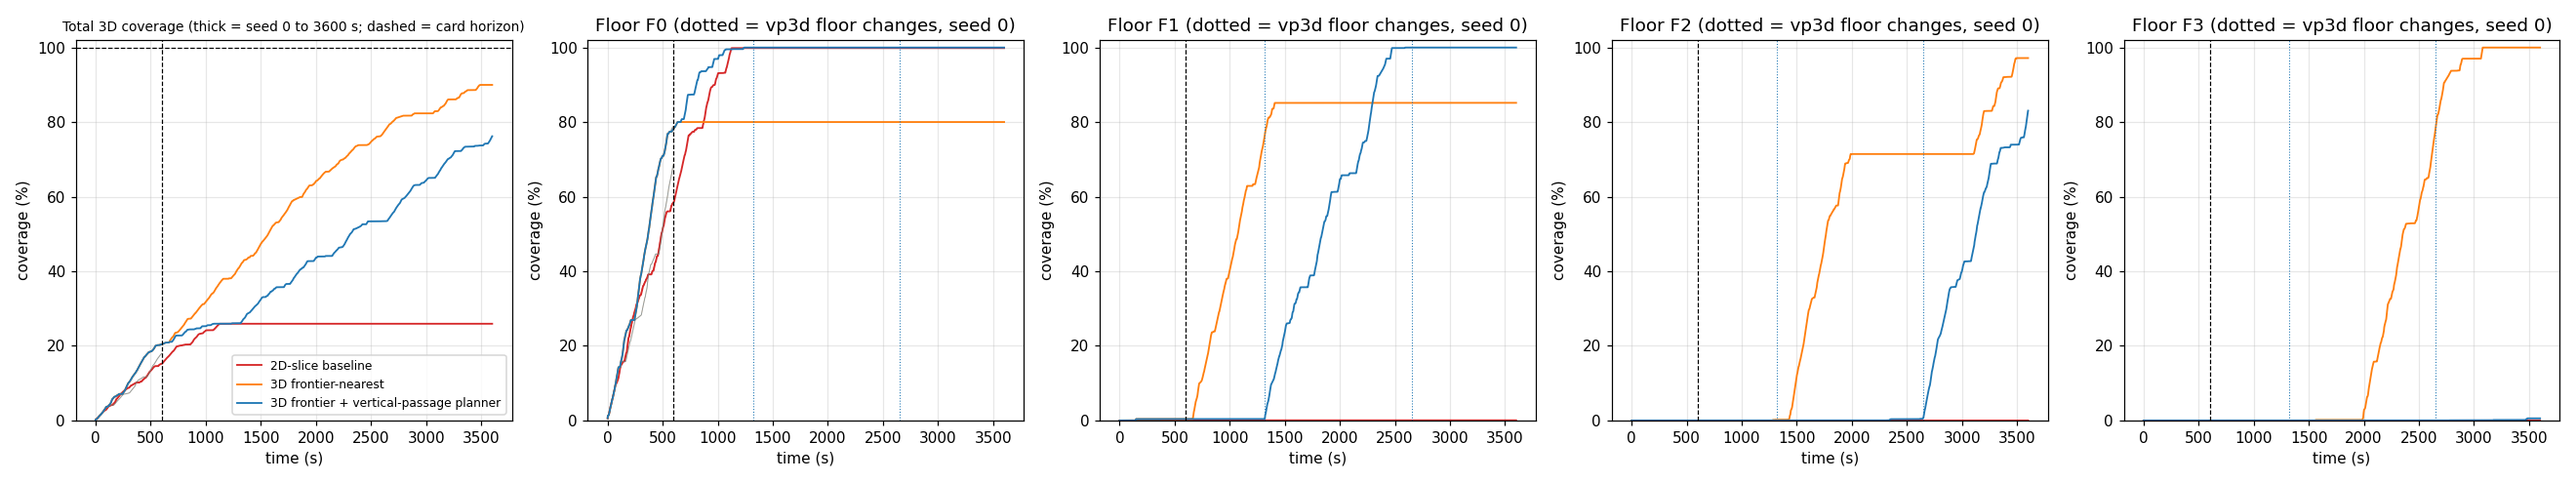
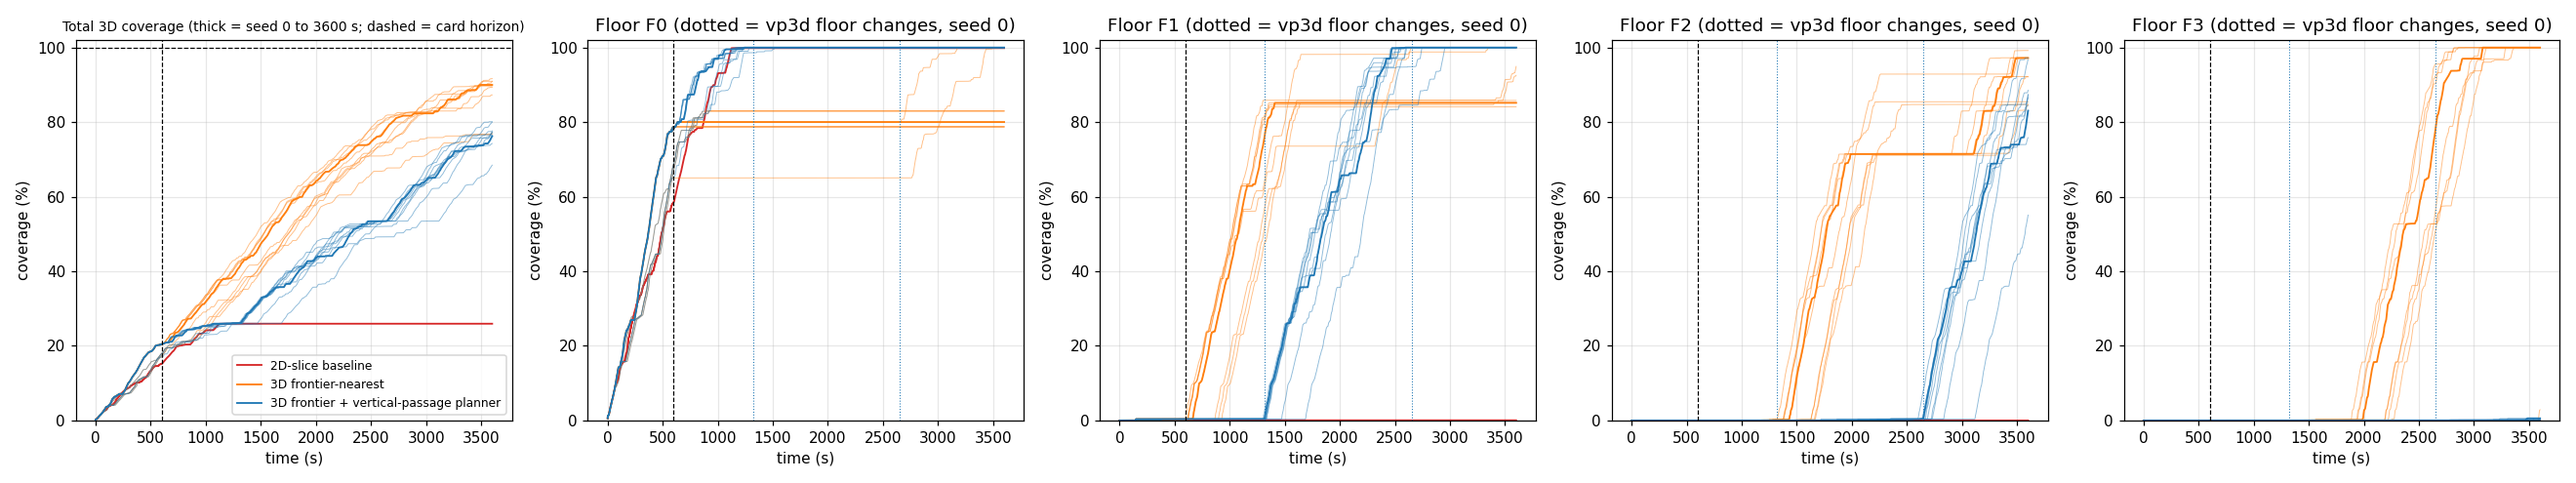
Fix S043 3D Confined Space Exploration: address review follow-ups

diff --git a/src/03_environmental_sar/3d/s043_3d_confined_space.py b/src/03_environmental_sar/3d/s043_3d_confined_space.py
@@ -44,6 +44,7 @@ from matplotlib.animation import FuncAnimation, PillowWriter
 from scipy.sparse import coo_matrix
 from scipy.sparse.csgraph import dijkstra
 from scipy.ndimage import label
+from concurrent.futures import ProcessPoolExecutor
 
 _HERE = os.path.dirname(os.path.abspath(__file__))
 _spec = importlib.util.spec_from_file_location('s043_2d', os.path.join(_HERE, '..', 's043_confined_space.py'))
@@ -73,7 +74,8 @@ T_EXT        = 3600.0              # s — supplementary horizon (the card horiz
 STAIR_SPAN   = 2.5                 # m — card: a stairwell cluster spans >= 2.5 m vertically
 VP_BONUS     = 2.0                 # s — stairwell priority bonus (card: +2.0 BFS cost offset)
 START        = np.array([2.0, 2.0, 0.5])
-SEEDS        = [0, 1, 2]           # lidar-noise seeds
+SEEDS        = list(range(10))     # lidar-noise seeds 0-9
+N_WORKERS    = 8                   # parallel processes (results do not depend on it)
 ANIM_EVERY   = 300                 # steps (30 s)
 W_H, W_V     = RES / V_XY, RES / V_Z   # edge times (s)
 
@@ -105,8 +107,8 @@ def build_building():
                 i, j = rng.integers(3, NX - 5), rng.integers(3, NY - 5)
                 V[i:i + 2, j:j + 2, k0:k1] = True
     for name, s, (x0, x1), (y0, y1) in OPENINGS:  # stairwell openings (cleared over both floors)
-        V[x0:x1, y0:y1, s - 4:s + 5] = False
-        V[x0 - 1:x1 + 1, y0 - 1:y1 + 1, s] &= ~np.zeros((x1 - x0 + 2, y1 - y0 + 2), bool)
+        V[x0:x1, y0:y1, s - 4:min(s + 5, NZ - 1)] = False   # never opens the roof (layer NZ-1)
+    assert V[:, :, NZ - 1].all() and V[:, :, 0].all(), 'roof / ground slab must stay closed'
     # partly collapsed ceiling in F0 (room x 14-24, y 2-9): only layers 1-2 free (1.0 m)
     V[28:48, 4:18, 3:5] = True
     # crawl space in F0 (x 1-5, y 26-29): only layer 1 free (0.5 m) -> impassable
@@ -191,10 +193,11 @@ def scan(L, V, pos, rng):
     hit_lin = lin[np.arange(len(DIRS)), np.minimum(first, len(RS) - 1)]
     free_m = RS[None, :] < (r_meas[:, None] - RAY_STEP / 2)
     free_m &= lin != hit_lin[:, None]
-    bid = np.broadcast_to(np.arange(len(DIRS))[:, None], lin.shape)
-    pairs = np.unique(bid[free_m] * (NX * NY * NZ) + lin[free_m])
+    # one free update per (beam, voxel): a straight ray visits each voxel in one consecutive run
+    first_of_run = np.ones(lin.shape, dtype=bool)
+    first_of_run[:, 1:] = lin[:, 1:] != lin[:, :-1]
     Lf = L.reshape(-1)
-    np.add.at(Lf, pairs % (NX * NY * NZ), L_FREE)
+    np.add.at(Lf, lin[free_m & first_of_run], L_FREE)
     hits = hit_lin[hit_any & (r_meas < SENSOR_R)]
     np.add.at(Lf, hits, L_OCC)
     np.clip(Lf, L_MIN, L_MAX, out=Lf)
@@ -269,9 +272,14 @@ def run(V, reach_vox, strategy, seed, t_max=T_MAX, record=False):
     for step in range(n_steps):
         t = step * DT
         scan(L, V, pos, rng)
-        p = prob(L)
-        known_free = p < P_FREE
-        if step % 10 == 0 or step == n_steps - 1:
+        cur = node_of(pos)
+        at_node = bool(np.all(np.abs(pos - centre(cur)) <= 1e-9))
+        sample = step % 10 == 0 or step == n_steps - 1
+        plan_now = at_node and t >= next_plan_t and step < n_steps - 1
+        if sample or plan_now or step in snap_steps or (record and step % ANIM_EVERY == 0):
+            p = prob(L)                            # only evaluated when it is used
+            known_free = p < P_FREE
+        if sample:
             cov_t.append(t)
             cov.append(100 * np.sum(known_free & reach_vox) / n_reach)
             cov_f.append([100 * np.sum(known_free & fv) / max(fv.sum(), 1) for fv in floors_vox])
@@ -284,10 +292,8 @@ def run(V, reach_vox, strategy, seed, t_max=T_MAX, record=False):
             frames.append((t, p.copy(), pos.copy()))
         if step == n_steps - 1:
             break
-        cur = node_of(pos)
-        at_node = np.allclose(pos, centre(cur), atol=1e-9)
         # replan when idle at a node and the goal is gone / reached / path blocked
-        if at_node and t >= next_plan_t:
+        if plan_now:
             frv = frontier_mask(p)
             fr = frv.copy()                        # frontier NODE: its own voxel or its headroom voxel borders unknown
             fr[:, :, :-1] |= frv[:, :, 1:]
@@ -344,7 +350,7 @@ def run(V, reach_vox, strategy, seed, t_max=T_MAX, record=False):
                 pos = tgt
                 n = path.pop(0)
                 assert not V[n] and not V[n[0], n[1], n[2] + 1], 'entered an occupied voxel'
-                assert p[n] < P_OCC, 'entered a mapped-occupied voxel'
+                assert prob(L[n]) < P_OCC, 'entered a mapped-occupied voxel'
                 f_now = FLOOR_OF[n[2]]
                 if f_now != last_floor:
                     floor_switch.append((t, last_floor, f_now))
@@ -354,7 +360,7 @@ def run(V, reach_vox, strategy, seed, t_max=T_MAX, record=False):
     path_len = float(np.sum(np.linalg.norm(np.diff(traj, axis=0), axis=1)))
     return dict(cov_t=np.array(cov_t), cov=np.array(cov), cov_f=np.array(cov_f), traj=traj,
                 path_len=path_len, passages=passages, floor_switch=floor_switch, n_plans=n_plans,
-                snaps=snaps, frames=frames, exhausted_t=exhausted_t, final_p=p)
+                snaps=snaps, frames=frames, exhausted_t=exhausted_t, final_p=prob(L))
 
 
 def exh(r):
@@ -369,6 +375,14 @@ def cov_at(r, tt):
 def cov_f_at(r, tt):
     i = np.searchsorted(r['cov_t'], tt + 1e-9) - 1
     return r['cov_f'][i]
+
+
+def _job(args):
+    """One mission in a worker process (the building is rebuilt deterministically)."""
+    strategy, seed, t_max, record = args
+    V = build_building()
+    reach_vox = node_voxels(reachable_nodes(V, node_of(START)))
+    return run(V, reach_vox, strategy, seed, t_max=t_max, record=record)
 
 
 def t_reach(res, level):
@@ -398,23 +412,30 @@ def run_simulation():
         print(f'Opening {name}: slab layer {s} (z {s * RES:.1f} m), x {x0 * RES:.1f}-{x1 * RES:.1f} m, '
               f'y {y0 * RES:.1f}-{y1 * RES:.1f} m, area {(x1 - x0) * (y1 - y0) * RES ** 2:.1f} m^2')
     print(f'Card horizon check: {T_MAX:.0f} s at {V_XY} m/s is at most {T_MAX * V_XY:.0f} m of flight')
-    # seed 0 is flown for T_EXT; its first T_MAX seconds are identical to a T_MAX run (same noise stream)
-    res = {s: [] for s in STRATS}
-    ext = {}
-    print(f'=== Card horizon {T_MAX:.0f} s, lidar seeds {SEEDS} (seed {SEEDS[0]} read from its {T_EXT:.0f} s run) ===')
+    # Every 3D run is flown for T_EXT; its first T_MAX seconds are identical to a T_MAX run (same
+    # noise stream), so the card-horizon numbers are read from it.  The slice baseline is flown to
+    # T_EXT for seed 0 only (its frontiers run out long before).  Runs are independent and are
+    # executed in parallel processes; results are collected in a fixed order.
+    jobs = []
     for seed in SEEDS:
         for s in STRATS:
-            if seed == SEEDS[0]:
-                r = run(V, reach_vox, s, seed, t_max=T_EXT, record=True)
-                ext[s] = r
-            else:
-                r = run(V, reach_vox, s, seed, t_max=T_MAX)
-            res[s].append(r)
+            long_run = s != 'slice' or seed == SEEDS[0]
+            jobs.append((s, seed, T_EXT if long_run else T_MAX, seed == SEEDS[0]))
+    with ProcessPoolExecutor(max_workers=min(N_WORKERS, len(jobs))) as ex:
+        outs = list(ex.map(_job, jobs))
+    res = {s: [] for s in STRATS}
+    for (s, seed, tm, rec), r in zip(jobs, outs):
+        res[s].append(r)
+    ext = {s: res[s][0] for s in STRATS}
+    print(f'=== Card horizon {T_MAX:.0f} s, lidar seeds {SEEDS} ===')
+    for i, seed in enumerate(SEEDS):
+        for s in STRATS:
+            r = res[s][i]
             cf = cov_f_at(r, T_MAX)
             print(f'seed {seed} [{s:6s}] coverage at {T_MAX:.0f} s {cov_at(r, T_MAX):.1f} % (F0 {cf[0]:.1f} / F1 {cf[1]:.1f} / '
                   f'F2 {cf[2]:.1f} / F3 {cf[3]:.1f} %), at 200/400 s {cov_at(r, 200):.1f}/{cov_at(r, 400):.1f} %, '
                   f'floor changes by {T_MAX:.0f} s {sum(1 for x in r["floor_switch"] if x[0] <= T_MAX)}')
-    print(f'=== Summary at {T_MAX:.0f} s over seeds (mean, min-max) ===')
+    print(f'=== Summary at {T_MAX:.0f} s over {len(SEEDS)} seeds (mean, min-max) ===')
     cov600 = {s: np.array([cov_at(r, T_MAX) for r in res[s]]) for s in STRATS}
     for s in STRATS:
         c = cov600[s]
@@ -423,7 +444,28 @@ def run_simulation():
         d = cov600[a] - cov600[b]
         print(f'{a} vs {b}: higher in {int(np.sum(d > 0))}/{len(SEEDS)} seeds, equal in {int(np.sum(d == 0))} '
               f'(mean diff {d.mean():+.1f} pts)')
-    print(f'=== Extended horizon {T_EXT:.0f} s (seed {SEEDS[0]}) ===')
+    print(f'=== Extended horizon {T_EXT:.0f} s, 3D strategies, {len(SEEDS)} seeds ===')
+    marks = (1200, 1800, 2400, 3600)
+    for i, seed in enumerate(SEEDS):
+        a, b = res['near3d'][i], res['vp3d'][i]
+        fa = a['floor_switch'][0][0] if a['floor_switch'] else float('nan')
+        fb = b['floor_switch'][0][0] if b['floor_switch'] else float('nan')
+        print(f'seed {seed}: near3d ' + '/'.join(f'{cov_at(a, tt):.1f}' for tt in marks)
+              + ' %, vp3d ' + '/'.join(f'{cov_at(b, tt):.1f}' for tt in marks)
+              + f' % (at 1200/1800/2400/3600 s); time to 50 %: near3d {t_reach(a, 50):.1f} s, '
+              f'vp3d {t_reach(b, 50):.1f} s; first floor change near3d {fa:.0f} s, vp3d {fb:.0f} s')
+    for tt in marks:
+        ca = np.array([cov_at(r, tt) for r in res['near3d']]); cb = np.array([cov_at(r, tt) for r in res['vp3d']])
+        d = ca - cb
+        print(f'at {tt} s: near3d {ca.mean():.1f} +- {ca.std():.1f} % [{ca.min():.1f}, {ca.max():.1f}], vp3d '
+              f'{cb.mean():.1f} +- {cb.std():.1f} % [{cb.min():.1f}, {cb.max():.1f}]; near3d higher in '
+              f'{int(np.sum(d > 0))}/{len(SEEDS)}, vp3d higher in {int(np.sum(d < 0))}/{len(SEEDS)}, '
+              f'difference {d.mean():+.1f} pts [{d.min():+.1f}, {d.max():+.1f}]')
+    ta = np.array([t_reach(r, 50) for r in res['near3d']]); tb = np.array([t_reach(r, 50) for r in res['vp3d']])
+    print(f'time to 50 %: near3d {np.nanmean(ta):.1f} s [{np.nanmin(ta):.1f}, {np.nanmax(ta):.1f}], vp3d '
+          f'{np.nanmean(tb):.1f} s [{np.nanmin(tb):.1f}, {np.nanmax(tb):.1f}]; near3d earlier in '
+          f'{int(np.sum(ta < tb))}/{len(SEEDS)}')
+    print(f'=== Seed {SEEDS[0]} details ({T_EXT:.0f} s) ===')
     for s in STRATS:
         r = ext[s]
         cf = r['cov_f'][-1]
@@ -432,7 +474,7 @@ def run_simulation():
               f'{t_reach(r, 25):.1f}/{t_reach(r, 50):.1f}/{t_reach(r, 75):.1f} s; path {r["path_len"]:.1f} m; '
               f'plans {r["n_plans"]}; frontiers exhausted {exh(r)}')
         print(f'         floor changes: ' + (', '.join(f'{tt:.0f} s F{a}->F{b}' for tt, a, b in r['floor_switch']) or 'none'))
-    print(f'=== Vertical passage detection log (first detection, span >= {STAIR_SPAN} m) ===')
+    print(f'=== Vertical passage detection log, seed {SEEDS[0]} (first detection, span >= {STAIR_SPAN} m) ===')
     for s in ('near3d', 'vp3d'):
         for sl, c, a, span, tt in ext[s]['passages']:
             print(f'  [{s}] slab z = {sl * RES:.1f} m: centroid ({c[0]:.2f}, {c[1]:.2f}) m, free cross-section '

diff --git a/outputs/03_environmental_sar/3d/s043_3d_confined_space/README.md b/outputs/03_environmental_sar/3d/s043_3d_confined_space/README.md
@@ -61,11 +61,12 @@ also reported per floor, where floor k holds layers 5k … 5k + 4.
 | Body / gap / headroom | $r_d$ = 0.15 m, $h_d$ = 0.20 m; $g_{min}$ = 0.40 m; $h_{min}$ = 0.60 m → 2 free voxels |
 | Speeds | 0.5 m/s horizontal, $v_{z,max}$ = 0.3 m/s |
 | Δt | 0.1 s |
-| Horizon | 600 s (card); extended 3600 s |
+| Horizon | 600 s (card); extended 3600 s for every 3D run |
 | Stairwell bonus $\Delta p_{stair}$ | 2.0 s off the travel-time cost |
 | Stairwell span criterion | ≥ 2.5 m |
 | Start | (2.0, 2.0, 0.5) m → node centre (2.25, 2.25, 0.75) m |
-| Lidar seeds | 0, 1, 2 (`default_rng([seed, 0])`); seed 0 is flown to 3600 s and its first 600 s are the card-horizon result |
+| Lidar seeds | 0–9 (`default_rng([seed, 0])`). Every 3D run is flown to 3600 s and its first 600 s are its card-horizon result; the slice baseline is flown to 3600 s for seed 0 and to 600 s for seeds 1–9 |
+| Parallel processes | 8 (runs are independent; the results do not depend on the number of processes) |
 | Rubble seed | 43 |
 | Animation | vertical-passage planner, seed 0, one frame per 30 s, 121 frames |
 
@@ -82,7 +83,7 @@ conda activate drones
 python src/03_environmental_sar/3d/s043_3d_confined_space.py
 ```
 
-The script imports the fixed 2D S043 module for the floor plan and the log-odds constants. Runtime ≈ 5 min: three 3600 s runs, six 600 s runs and the GIF. Two runs printed byte-identical output and wrote byte-identical PNG and GIF files.
+The script imports the fixed 2D S043 module for the floor plan and the log-odds constants. Runtime ≈ 3–4 min (173 s and 231 s in the two checks): 21 runs of 3600 s and 9 runs of 600 s in 8 parallel processes, plus the GIF. Two runs printed byte-identical output and wrote byte-identical PNG and GIF files.
 
 ---
 
@@ -93,34 +94,58 @@ The script imports the fixed 2D S043 module for the floor plan and the log-odds 
 | Quantity | Value |
 |----------|-------|
 | Occupied voxels | 37.0 % |
-| Reachable nodes / $\mathcal C_{reach}$ voxels | 32751 / 44710 (F0 11604, F1 12240, F2 12260, F3 8606) |
+| Reachable nodes / $\mathcal C_{reach}$ voxels | 32735 / 44694 (F0 11604, F1 12240, F2 12260, F3 8590) |
 | Reachable from the start layer alone | 3032 nodes = 13.6 % of $\mathcal C_{reach}$ |
 | Low-ceiling room | traversable only at layer 1 (262 nodes; 0 at layer 2) |
 | Crawl space | 48 free voxels with 0.5 m headroom, 0 reachable nodes |
 | Card horizon | 600 s × 0.5 m/s = at most 300 m of flight |
 
-### Card horizon, 600 s (3 lidar seeds)
+### Card horizon, 600 s (10 lidar seeds)
 
-| Strategy | Coverage at 600 s, seed 0 / 1 / 2 | Mean (min–max) | F0 at 600 s (seed 0) | Floor changes |
-|----------|-----------------------------------|----------------|----------------------|---------------|
-| 2D-slice baseline | 15.2 / 15.2 / 15.2 % | 15.2 % (15.2–15.2) | 58.5 % | 0 |
-| 3D frontier-nearest | 20.4 / 18.0 / 20.5 % | 19.6 % (18.0–20.5) | 78.3 % | 0 |
-| 3D + vertical-passage planner | 20.4 / 18.0 / 20.5 % | 19.6 % (18.0–20.5) | 78.3 % | 0 |
+| Strategy | Coverage at 600 s, mean (min–max) | Seed 0: total / F0 | Floor changes by 600 s |
+|----------|-----------------------------------|--------------------|------------------------|
+| 2D-slice baseline | 15.2 % (15.2–15.2) | 15.2 / 58.5 % | 0 in every seed |
+| 3D frontier-nearest | 19.4 % (17.2–20.5) | 20.4 / 78.3 % | 1 in seed 3 (at 599 s), 0 otherwise |
+| 3D + vertical-passage planner | 19.3 % (17.0–20.5) | 20.4 / 78.3 % | 0 in every seed |
 
 Head-to-head:
-- Both 3D strategies beat the slice baseline in 3/3 seeds (+4.4 points on average).
-- Frontier-nearest and the vertical-passage planner are identical in 3/3 seeds (difference +0.0).
+- Frontier-nearest beats the slice baseline in 10/10 seeds (+4.2 points on average), and so does the vertical-passage planner (10/10, +4.1 points).
+- The two 3D strategies are identical in 9/10 seeds (mean difference −0.0 points). Until the first floor change both pick the same nearest frontier on F0, so at 600 s they can only differ in seed 3, where frontier-nearest climbs at 599 s.
 
-### Extended horizon, 3600 s (seed 0)
+### Extended horizon, 3600 s (3D strategies, 10 seeds)
+
+| Seed | Frontier-nearest at 1200 / 1800 / 2400 / 3600 s | Vertical-passage planner at 1200 / 1800 / 2400 / 3600 s | Time to 50 %: nearest / VP | First floor change: nearest / VP |
+|------|----------------------------------------|----------------------------------------|----------------------------|---------------------|
+| 0 | 38.0 / 59.2 / 73.8 / 90.0 % | 26.0 / 38.2 / 52.0 / 76.2 % | 1567 / 2309 s | 666 / 1319 s |
+| 1 | 32.5 / 52.2 / 69.8 / 89.3 % | 26.0 / 40.7 / 52.0 / 80.1 % | 1750 / 2181 s | 867 / 1315 s |
+| 2 | 38.4 / 58.3 / 72.2 / 89.9 % | 26.1 / 39.8 / 52.6 / 77.1 % | 1522 / 2203 s | 622 / 1334 s |
+| 3 | 32.2 / 48.3 / 63.7 / 76.8 % | 24.3 / 30.0 / 48.2 / 68.5 % | 1863 / 2725 s | 599 / 1690 s |
+| 4 | 31.7 / 50.7 / 68.8 / 87.3 % | 25.8 / 40.0 / 51.9 / 77.3 % | 1780 / 2294 s | 899 / 1337 s |
+| 5 | 38.7 / 59.3 / 74.7 / 91.7 % | 26.1 / 37.1 / 51.2 / 74.3 % | 1528 / 2346 s | 620 / 1304 s |
+| 6 | 36.6 / 53.3 / 69.6 / 77.2 % | 26.0 / 35.8 / 48.4 / 76.5 % | 1726 / 2451 s | 664 / 1472 s |
+| 7 | 30.7 / 52.5 / 70.5 / 90.9 % | 25.8 / 38.1 / 52.2 / 80.0 % | 1744 / 2152 s | 929 / 1317 s |
+| 8 | 38.6 / 59.6 / 74.3 / 89.7 % | 26.1 / 40.8 / 52.7 / 77.7 % | 1523 / 2171 s | 620 / 1316 s |
+| 9 | 41.0 / 61.4 / 75.3 / 90.9 % | 26.1 / 41.0 / 51.3 / 77.4 % | 1463 / 2271 s | 624 / 1328 s |
+
+| Time | Frontier-nearest, mean ± std [min, max] | Vertical-passage planner, mean ± std [min, max] | Nearest higher | Difference, mean [min, max] |
+|------|-----------------------------------------|--------------------------------------------------|----------------|------------------------------|
+| 1200 s | 35.8 ± 3.5 % [30.7, 41.0] | 25.8 ± 0.5 % [24.3, 26.1] | 10/10 | +10.0 pts [+4.9, +14.9] |
+| 1800 s | 55.5 ± 4.3 % [48.3, 61.4] | 38.2 ± 3.2 % [30.0, 41.0] | 10/10 | +17.3 pts [+10.7, +22.2] |
+| 2400 s | 71.3 ± 3.4 % [63.7, 75.3] | 51.3 ± 1.5 % [48.2, 52.7] | 10/10 | +20.0 pts [+15.5, +23.9] |
+| 3600 s | 87.4 ± 5.3 % [76.8, 91.7] | 76.5 ± 3.1 % [68.5, 80.1] | 10/10 | +10.9 pts [+0.6, +17.4] |
+
+Time to 50 % coverage is 1646.6 s on average for frontier-nearest (range 1463.0–1863.0 s) and 2310.3 s for the vertical-passage planner (range 2152.0–2725.0 s). Frontier-nearest is earlier in 10/10 seeds.
+
+### Seed-0 details, 3600 s
 
 | Strategy | Coverage at 600 / 1200 / 1800 / 2400 / 3600 s | Final F0 / F1 / F2 / F3 | Time to 25 / 50 / 75 % | Path | Plans | Frontiers exhausted |
 |----------|-------------------------------------------|-------------------------|-------------------------|------|-------|---------------------|
 | 2D-slice baseline | 15.2 / 25.9 / 25.9 / 25.9 / 25.9 % | 99.9 / 0.0 / 0.0 / 0.0 % | 1095.0 s / — / — | 590.0 m | 880 | 1132.0 s |
-| 3D frontier-nearest | 20.4 / 38.0 / 59.2 / 73.8 / **90.0 %** | 80.0 / 85.2 / 97.2 / 100.0 % | **785.0 / 1567.0 / 2509.0 s** | 1788.1 m | 2646 | never |
-| 3D + vertical-passage planner | 20.4 / 26.0 / 38.2 / 52.0 / 76.2 % | 100.0 / 100.0 / 83.1 / 0.6 % | 959.0 / 2310.0 / 3579.0 s | 1791.6 m | 2447 | never |
+| 3D frontier-nearest | 20.4 / 38.0 / 59.2 / 73.8 / 90.0 % | 80.0 / 85.2 / 97.2 / 100.0 % | 785.0 / 1567.0 / 2510.0 s | 1788.1 m | 2646 | never |
+| 3D + vertical-passage planner | 20.4 / 26.0 / 38.2 / 52.0 / 76.2 % | 100.0 / 100.0 / 83.1 / 0.6 % | 959.0 / 2309.0 / 3579.0 s | 1791.6 m | 2447 | never |
 
 **Floor changes**:
-- Frontier-nearest: 666 s F0→F1, 1433 s F1→F2, 1994 s F2→F3, 3105 s F3→F2, 3599 s F2→F1.
+- Frontier-nearest: 666 s F0→F1, 1433 s F1→F2, 1994 s F2→F3, 3105 s F3→F2, 3600 s F2→F1.
 - Vertical-passage planner: 1319 s F0→F1, 2650 s F1→F2.
 
 **Vertical-passage detection log** (first detection; cross-section and span as known at that moment):
@@ -138,11 +163,11 @@ All three detected centroids lie inside the true openings.
 
 ### Key findings
 
-- **The card's 600 s horizon is too short to test the third dimension.** At 0.5 m/s the drone can fly at most 300 m, and no strategy leaves the ground floor before 600 s (first floor change at 666 s). Within the card horizon the 3D strategies still beat the 2D slice: 19.6 vs 15.2 % on average, 3/3 seeds. They do this because they also move between the three usable layers of F0: at 600 s, F0 is 78.3 % mapped against 58.5 % for the slice. The slice can only reach 13.6 % of $\mathcal C_{reach}$ as nodes, but its spherical lidar maps the headroom above it. Its ceiling is therefore 25.9 % (F0 at 99.9 %), reached when its frontiers run out at 1132.0 s.
-- **The card's vertical-passage planner is worse than plain frontier-nearest.** Over 3600 s, frontier-nearest maps 90.0 % against 76.2 % and reaches 50 % at 1567.0 s against 2310.0 s. Finish-floor-first keeps the drone on F0 until 1319 s, to take F0 from 78.3 % (at 600 s) to 100 %, and later finishes F1 to 100 % before climbing at 2650 s. Cleaning up those last frontiers is slow. Between 600 and 1200 s total coverage rises by only 5.6 points for the vertical-passage planner (20.4 → 26.0 %), against 17.6 points for frontier-nearest (20.4 → 38.0 %), which climbs to the empty F1 at 666 s. Frontier-nearest never goes back for the last 20 % of F0, but it gains far more on F1–F3 (85.2 / 97.2 / 100.0 %). The −2 s stairwell bonus has little room to matter. It is only applied once the current floor has no frontier left, and at that point every remaining frontier lies beyond a stairwell anyway.
+- **The card's 600 s horizon is too short to test the third dimension.** At 0.5 m/s the drone can fly at most 300 m. In 10 seeds only one 3D run leaves the ground floor before 600 s (seed 3, at 599 s). Within the card horizon the 3D strategies still beat the 2D slice in 10/10 seeds: 19.4 and 19.3 % against 15.2 % on average. They do this because they also move between the three usable layers of F0; in seed 0, F0 is 78.3 % mapped at 600 s against 58.5 % for the slice. The slice can only reach 13.6 % of $\mathcal C_{reach}$ as nodes, but its spherical lidar maps the headroom above it. Its ceiling is therefore 25.9 % (F0 at 99.9 %), reached when its frontiers run out at 1132.0 s (seed 0). At 600 s the two 3D strategies cannot be told apart: they are identical in 9/10 seeds, because both choose the nearest F0 frontier until a floor change.
+- **Over the 3600 s extended horizon the card's vertical-passage planner is worse than plain frontier-nearest, in every seed.** Frontier-nearest has higher coverage in 10/10 seeds at 1200, 1800, 2400 and 3600 s. The mean gap is +10.0, +17.3, +20.0 and +10.9 points; at 3600 s it is 87.4 ± 5.3 % against 76.5 ± 3.1 %. Frontier-nearest also reaches 50 % first in 10/10 seeds (1646.6 vs 2310.3 s on average). The size of the final gap varies a lot between seeds, from +0.6 points (seed 6) to +17.4 points (seed 3), but its sign never changes. The reason is visible in the first floor change: frontier-nearest climbs to the empty F1 after 599–929 s, while finish-floor-first keeps the drone on F0 until 1304–1690 s to map its last frontiers. In seed 0, total coverage rises by only 5.6 points between 600 and 1200 s for the vertical-passage planner (20.4 → 26.0 %), against 17.6 points for frontier-nearest (20.4 → 38.0 %). Frontier-nearest never goes back for the last 20 % of F0 in seed 0, but it gains far more on F1–F3 (85.2 / 97.2 / 100.0 %). The −2 s stairwell bonus has little room to matter. It is only applied once the current floor has no frontier left, and at that point every remaining frontier lies beyond a stairwell anyway. This ranking holds for this building, this sensor range and these speeds; it is not a general result.
 - **The vertical-passage detector works.** It finds all three stairwells, with centroids inside the true 2 × 2 m openings, as soon as the lidar sees through them (S1 at 144.0 s, long before either strategy uses it). The cross-section at first detection is 1.0–2.25 m² of the true 4.0 m², because only part of the opening is mapped by then.
 - **Safety constraints hold.** No strategy entered an occupied or mapped-occupied voxel (asserted on every move). The 1.0 m low-ceiling room is traversed only at the lowest layer (262 nodes, 0 at layer 2), and the 0.5 m crawl space has 0 reachable nodes, so it is excluded from $\mathcal C_{reach}$ and never entered.
-- **Seed sensitivity is small.** Coverage at 600 s varies by 2.5 points across the three lidar-noise seeds for the 3D strategies (18.0–20.5 %) and not at all for the slice (15.2 %).
+- **Seed sensitivity.** Coverage at 600 s varies by about 3.5 points across the ten lidar-noise seeds for the 3D strategies (17.0–20.5 %) and not at all for the slice (15.2 %). At 3600 s the spread is larger (frontier-nearest 76.8–91.7 %, vertical-passage planner 68.5–80.1 %), because small mapping differences change which frontier is chosen and when the drone changes floor.
 
 ### Figures
 
@@ -150,7 +175,7 @@ All three detected centroids lie inside the true openings.
 
 ![Map snapshots](map_snapshots.png)
 
-**Coverage curves**: total 3D coverage and per-floor coverage. Thick lines are seed 0 to 3600 s; thin lines are seeds 1–2 to 600 s. The dashed line marks the card horizon, and dotted lines mark the vertical-passage planner's floor changes:
+**Coverage curves**: total 3D coverage and per-floor coverage. Thick lines are seed 0; thin lines are seeds 1–9 (3D strategies to 3600 s, slice to 600 s). The dashed line marks the card horizon, and dotted lines mark the vertical-passage planner's floor changes:
 
 ![Coverage curves](coverage_curves.png)
 
@@ -176,7 +201,7 @@ All three detected centroids lie inside the true openings.
 | $T_{max}$ = 600 s | 600 s reported, plus a 3600 s extended horizon | 300 m of flight cannot leave F0. The card now notes this. |
 | Snapshots at 0, 200, 400, 600 s as isometric voxel renders | 0, 600, 1800, 3600 s as per-floor slices | Nothing happens above F0 before 600 s, and per-floor slices show the map more clearly than isometric voxels. |
 | Path coloured by floor, stairwell segments orange | Paths coloured by strategy, stairwell openings outlined in orange, altitude plot with slab bands | Same information. |
-| — | Three lidar-noise seeds at 600 s | Shows seed sensitivity. |
+| — | Ten lidar-noise seeds, every 3D run flown to 3600 s | Gives per-seed wins and spread for the strategy comparison; the 600 s results are read from the same runs. |
 
 ---
 
